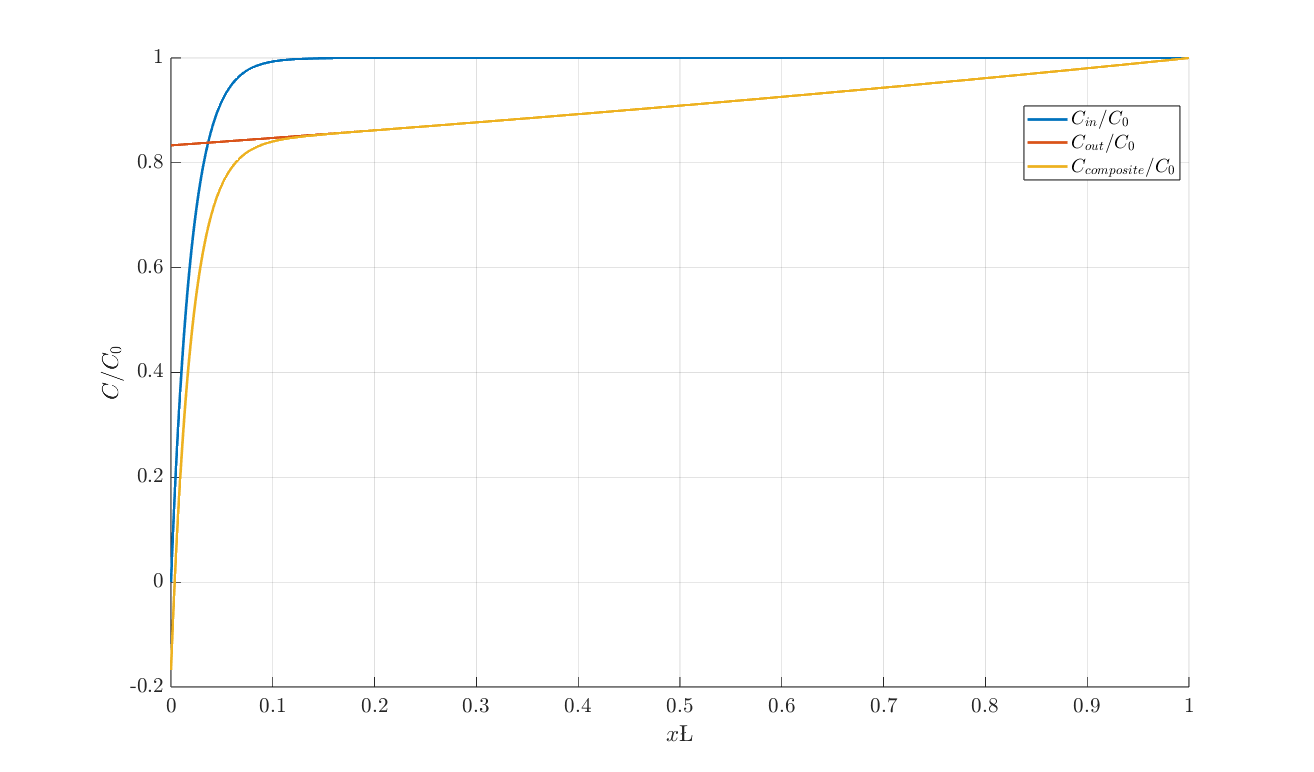
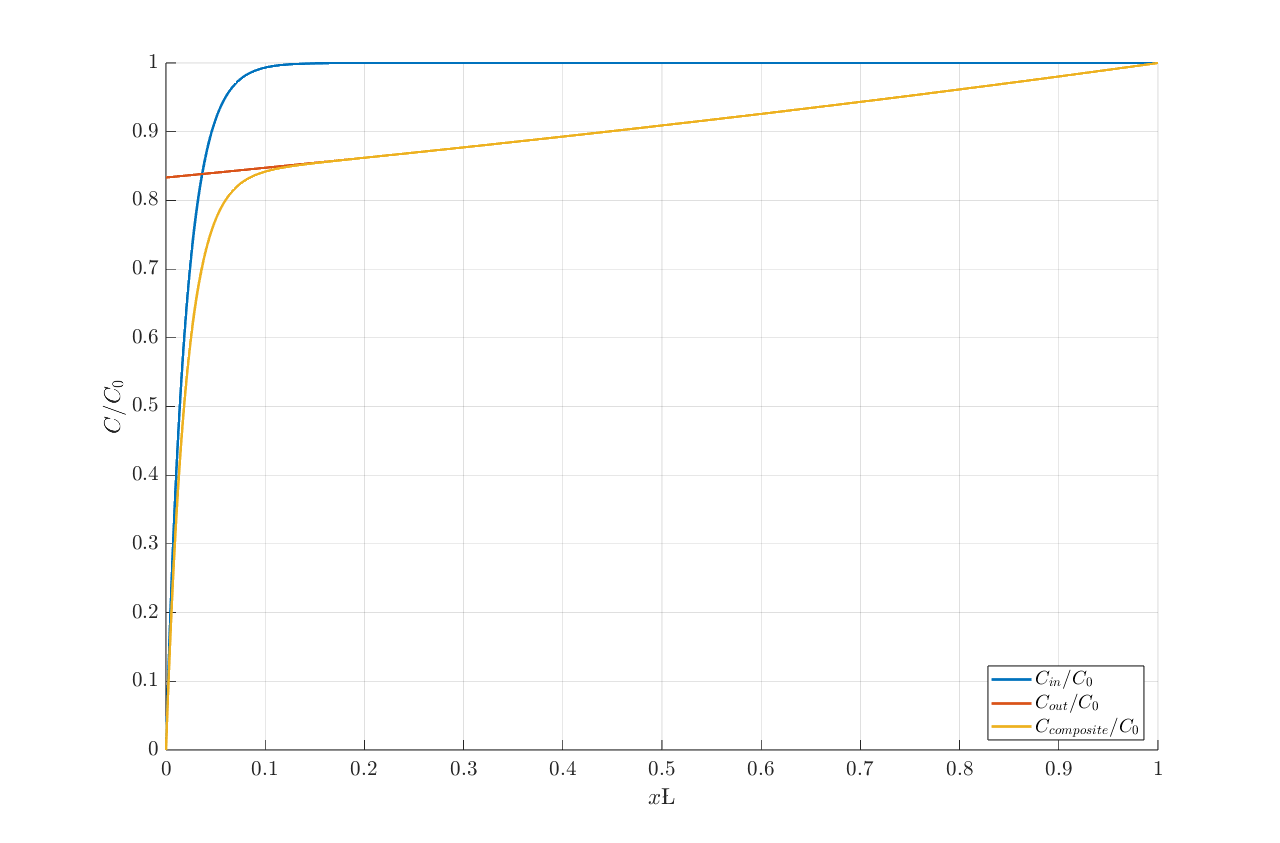
Correcting Transport HW5

diff --git a/Transport/HW5Q4C.m b/Transport/HW5Q4C.m
@@ -16,7 +16,7 @@ x = linspace(0, 1, 1000);
 
 cin = 1-exp(-50.*x);
 cout = 1./(0.2.*(1-x)+1);
-ccomp = 1./(0.2.*(1-x)+1) -exp(-50.*x);
+ccomp = 1./(0.2.*(1-x)+1) -exp(-50.*x)/(1.2);
 
 figure(1); hold on;
 
